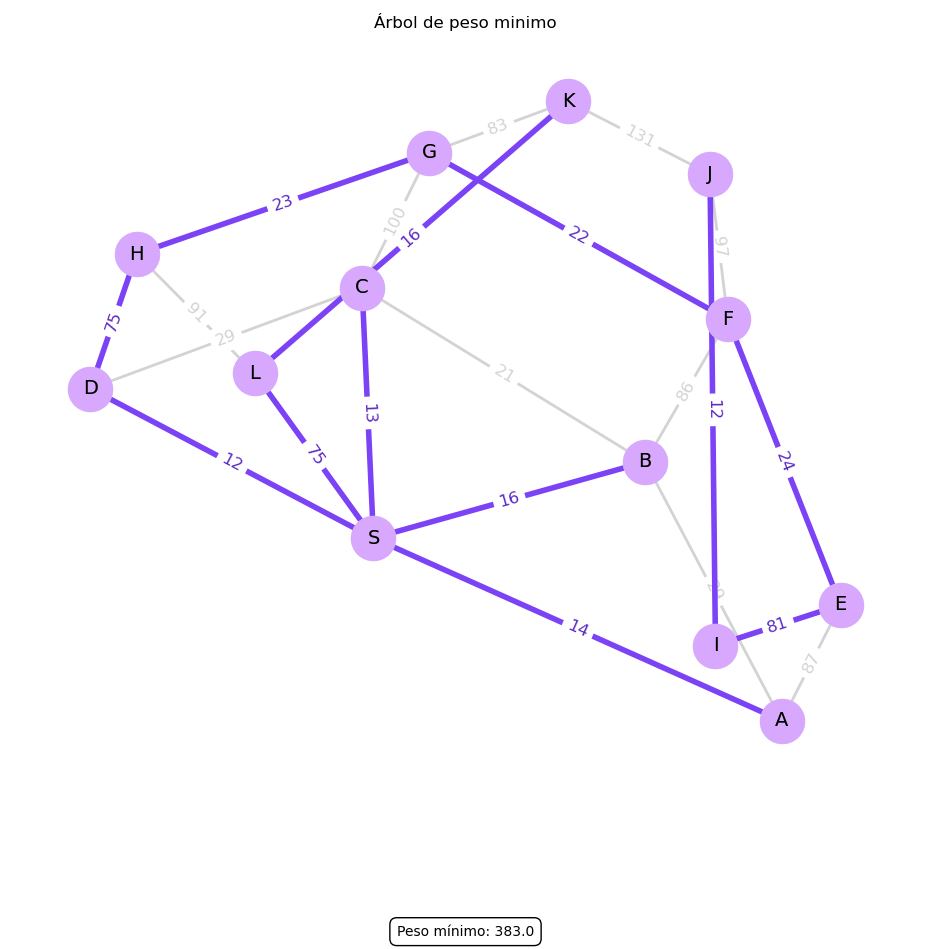
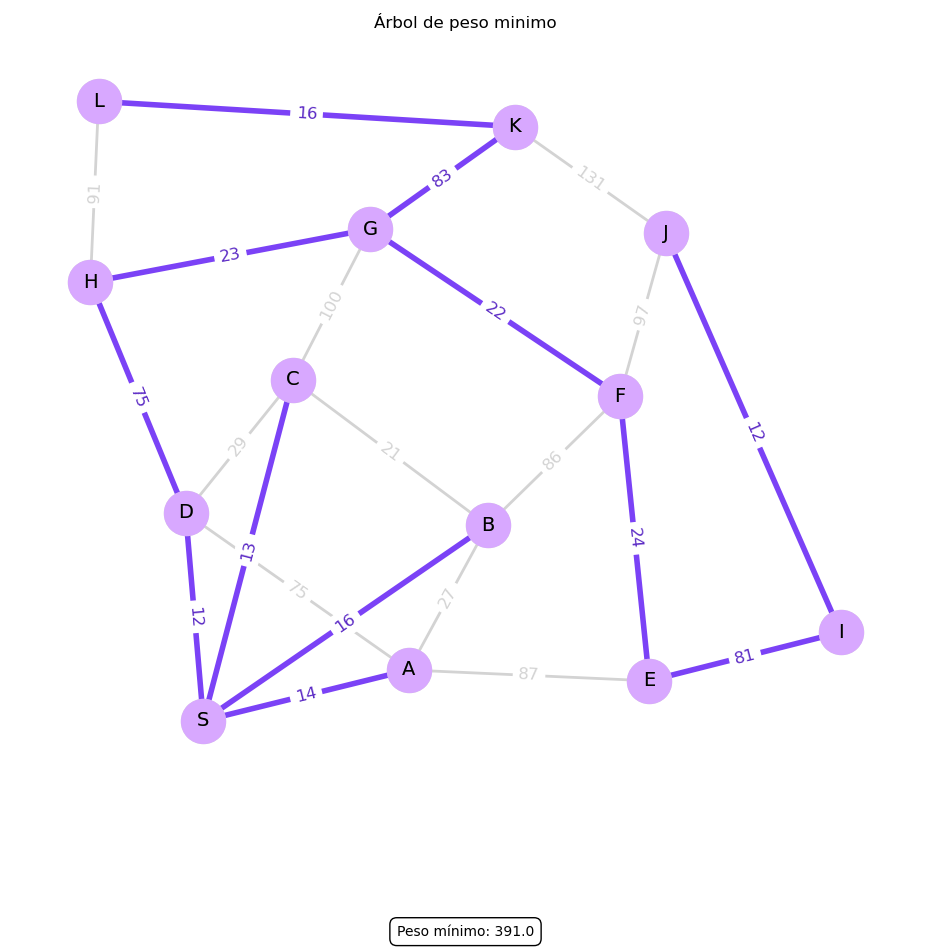
version 1

diff --git a/kruskall.py b/kruskall.py
@@ -2,21 +2,22 @@ import networkx as nx
 import matplotlib.pyplot as plt
 import grafos_tools as gt
 
-aristas = {
+aristas = [
+    "A75D",
     "S14A",
-    "A29B",
-    "S12D",
     "S16B",
     "S13C",
-    "B21C",
+    "S12D",
     "C29D",
+    "B21C",
+    "A27B",
     "A87E",
     "B86F",
     "C100G",
     "D75H",
-    "E24F",
+    "H23G",
     "F22G",
-    "G23H",
+    "E24F",
     "E81I",
     "F97J",
     "G83K",
@@ -24,8 +25,8 @@ aristas = {
     "I12J",
     "J131K",
     "K16L",
-    "S75L",
-}
+]
+
 
 vertices, index = gt.lista_vertices(aristas)
 aristas_ordenadas = gt.ordenar_aristas(aristas)

diff --git a/prim.py b/prim.py
@@ -5,20 +5,21 @@ import grafos_tools as gt
 plt.style.use("default")
 
 aristas = [
+    "A75D",
     "S14A",
-    "A29B",
-    "S12D",
     "S16B",
     "S13C",
-    "B21C",
+    "S12D",
     "C29D",
+    "B21C",
+    "A27B",
     "A87E",
     "B86F",
     "C100G",
     "D75H",
-    "E24F",
+    "H23G",
     "F22G",
-    "G23H",
+    "E24F",
     "E81I",
     "F97J",
     "G83K",
@@ -26,7 +27,6 @@ aristas = [
     "I12J",
     "J131K",
     "K16L",
-    "S75L",
 ]
 
 vertices, index = gt.lista_vertices(aristas)
